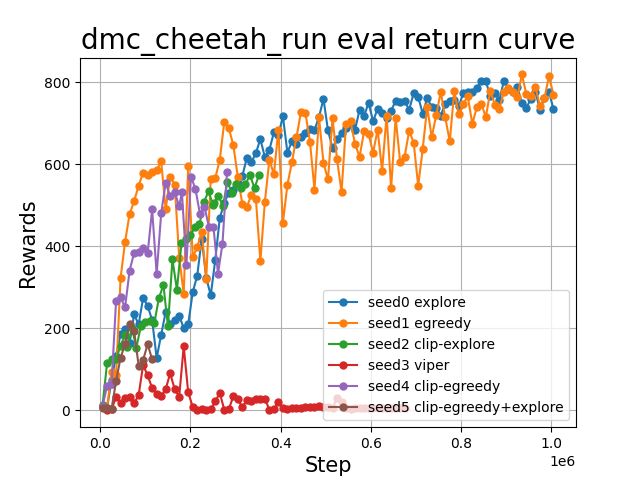
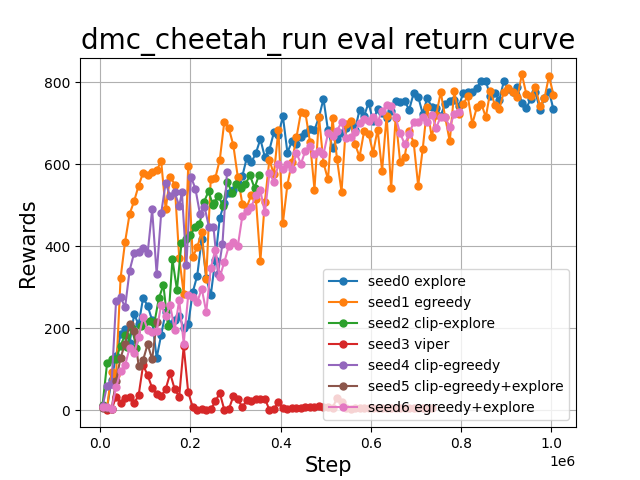
.

diff --git a/plot.py b/plot.py
@@ -26,10 +26,10 @@ if __name__ == "__main__":
 
     # methods = ["viper"]
     # seeds = ["0"]
-    methods = ["explore", "egreedy", "clip-explore", "viper", "clip-egreedy", "clip-egreedy+explore"]
+    methods = ["explore", "egreedy", "clip-explore", "viper", "clip-egreedy", "clip-egreedy+explore", "egreedy+explore"]
     # methods = ["vanilla", "0.05-greedy", "0.5-0.05 decay"]
     # methods = ["inf_life", "inf_life_curiosity"]
-    seeds = ["0", "1", "2", "3", "4", "5"]
+    seeds = ["0", "1", "2", "3", "4", "5", "6"]
 
     rmin = 0
     rmax = 0
